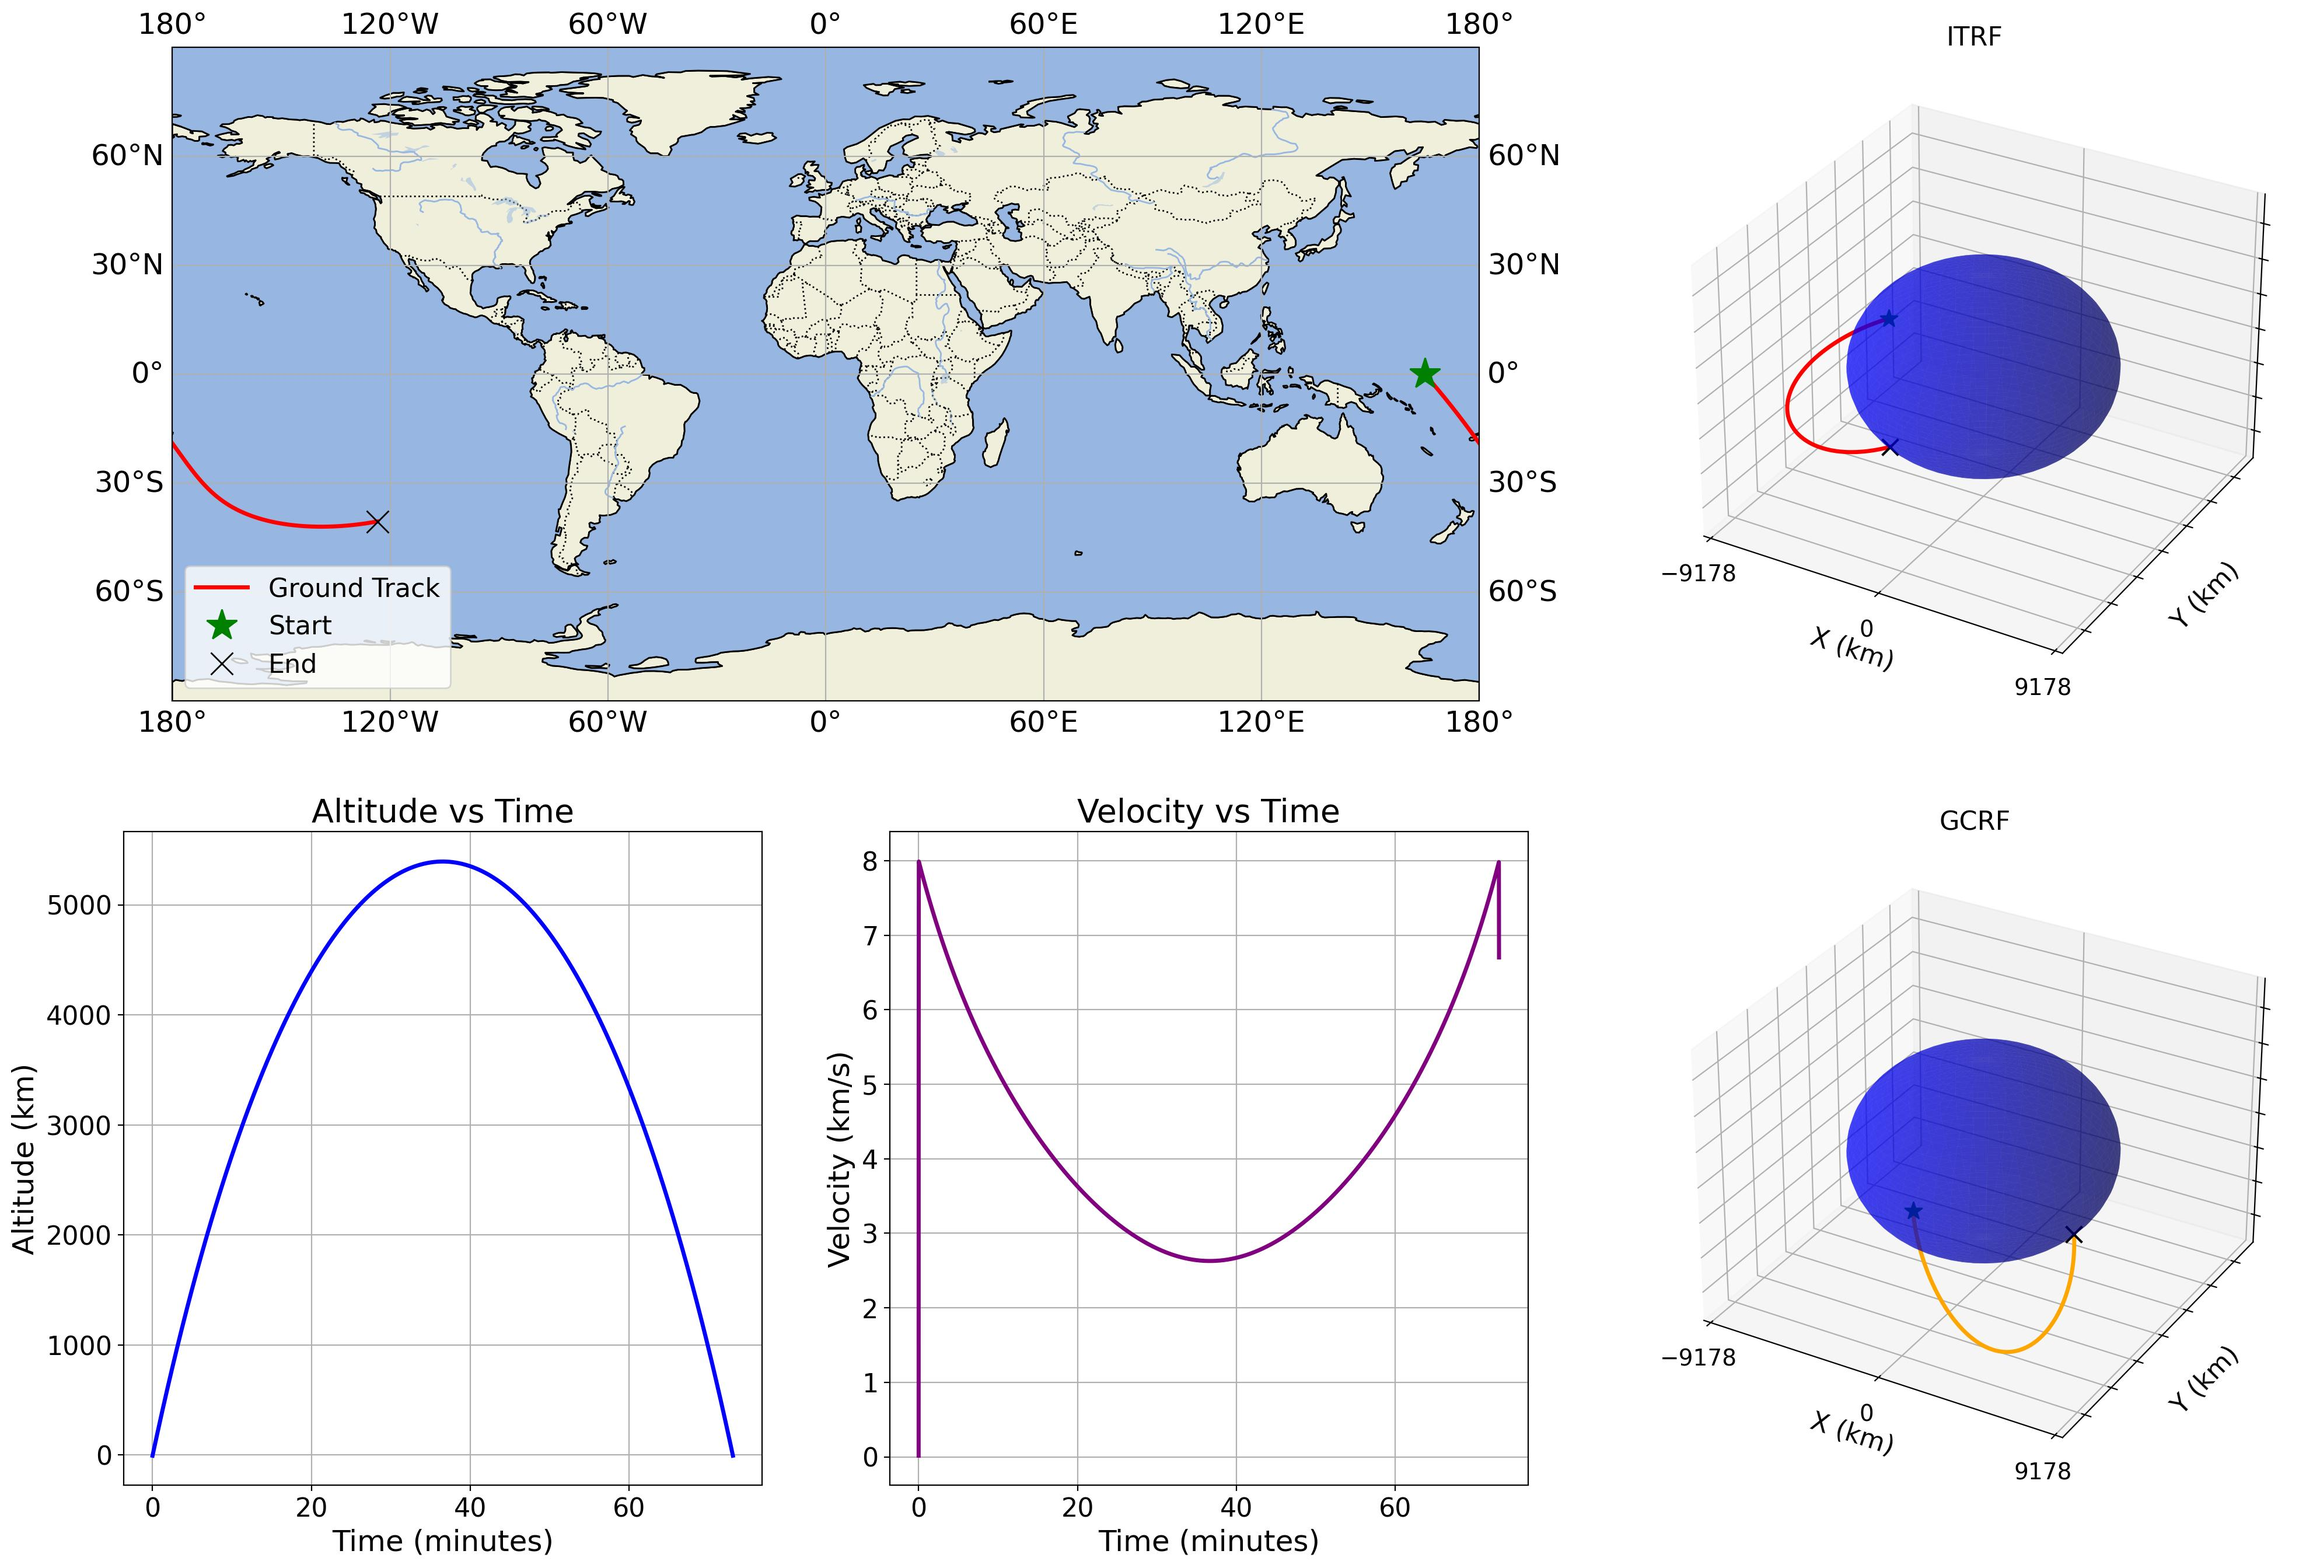
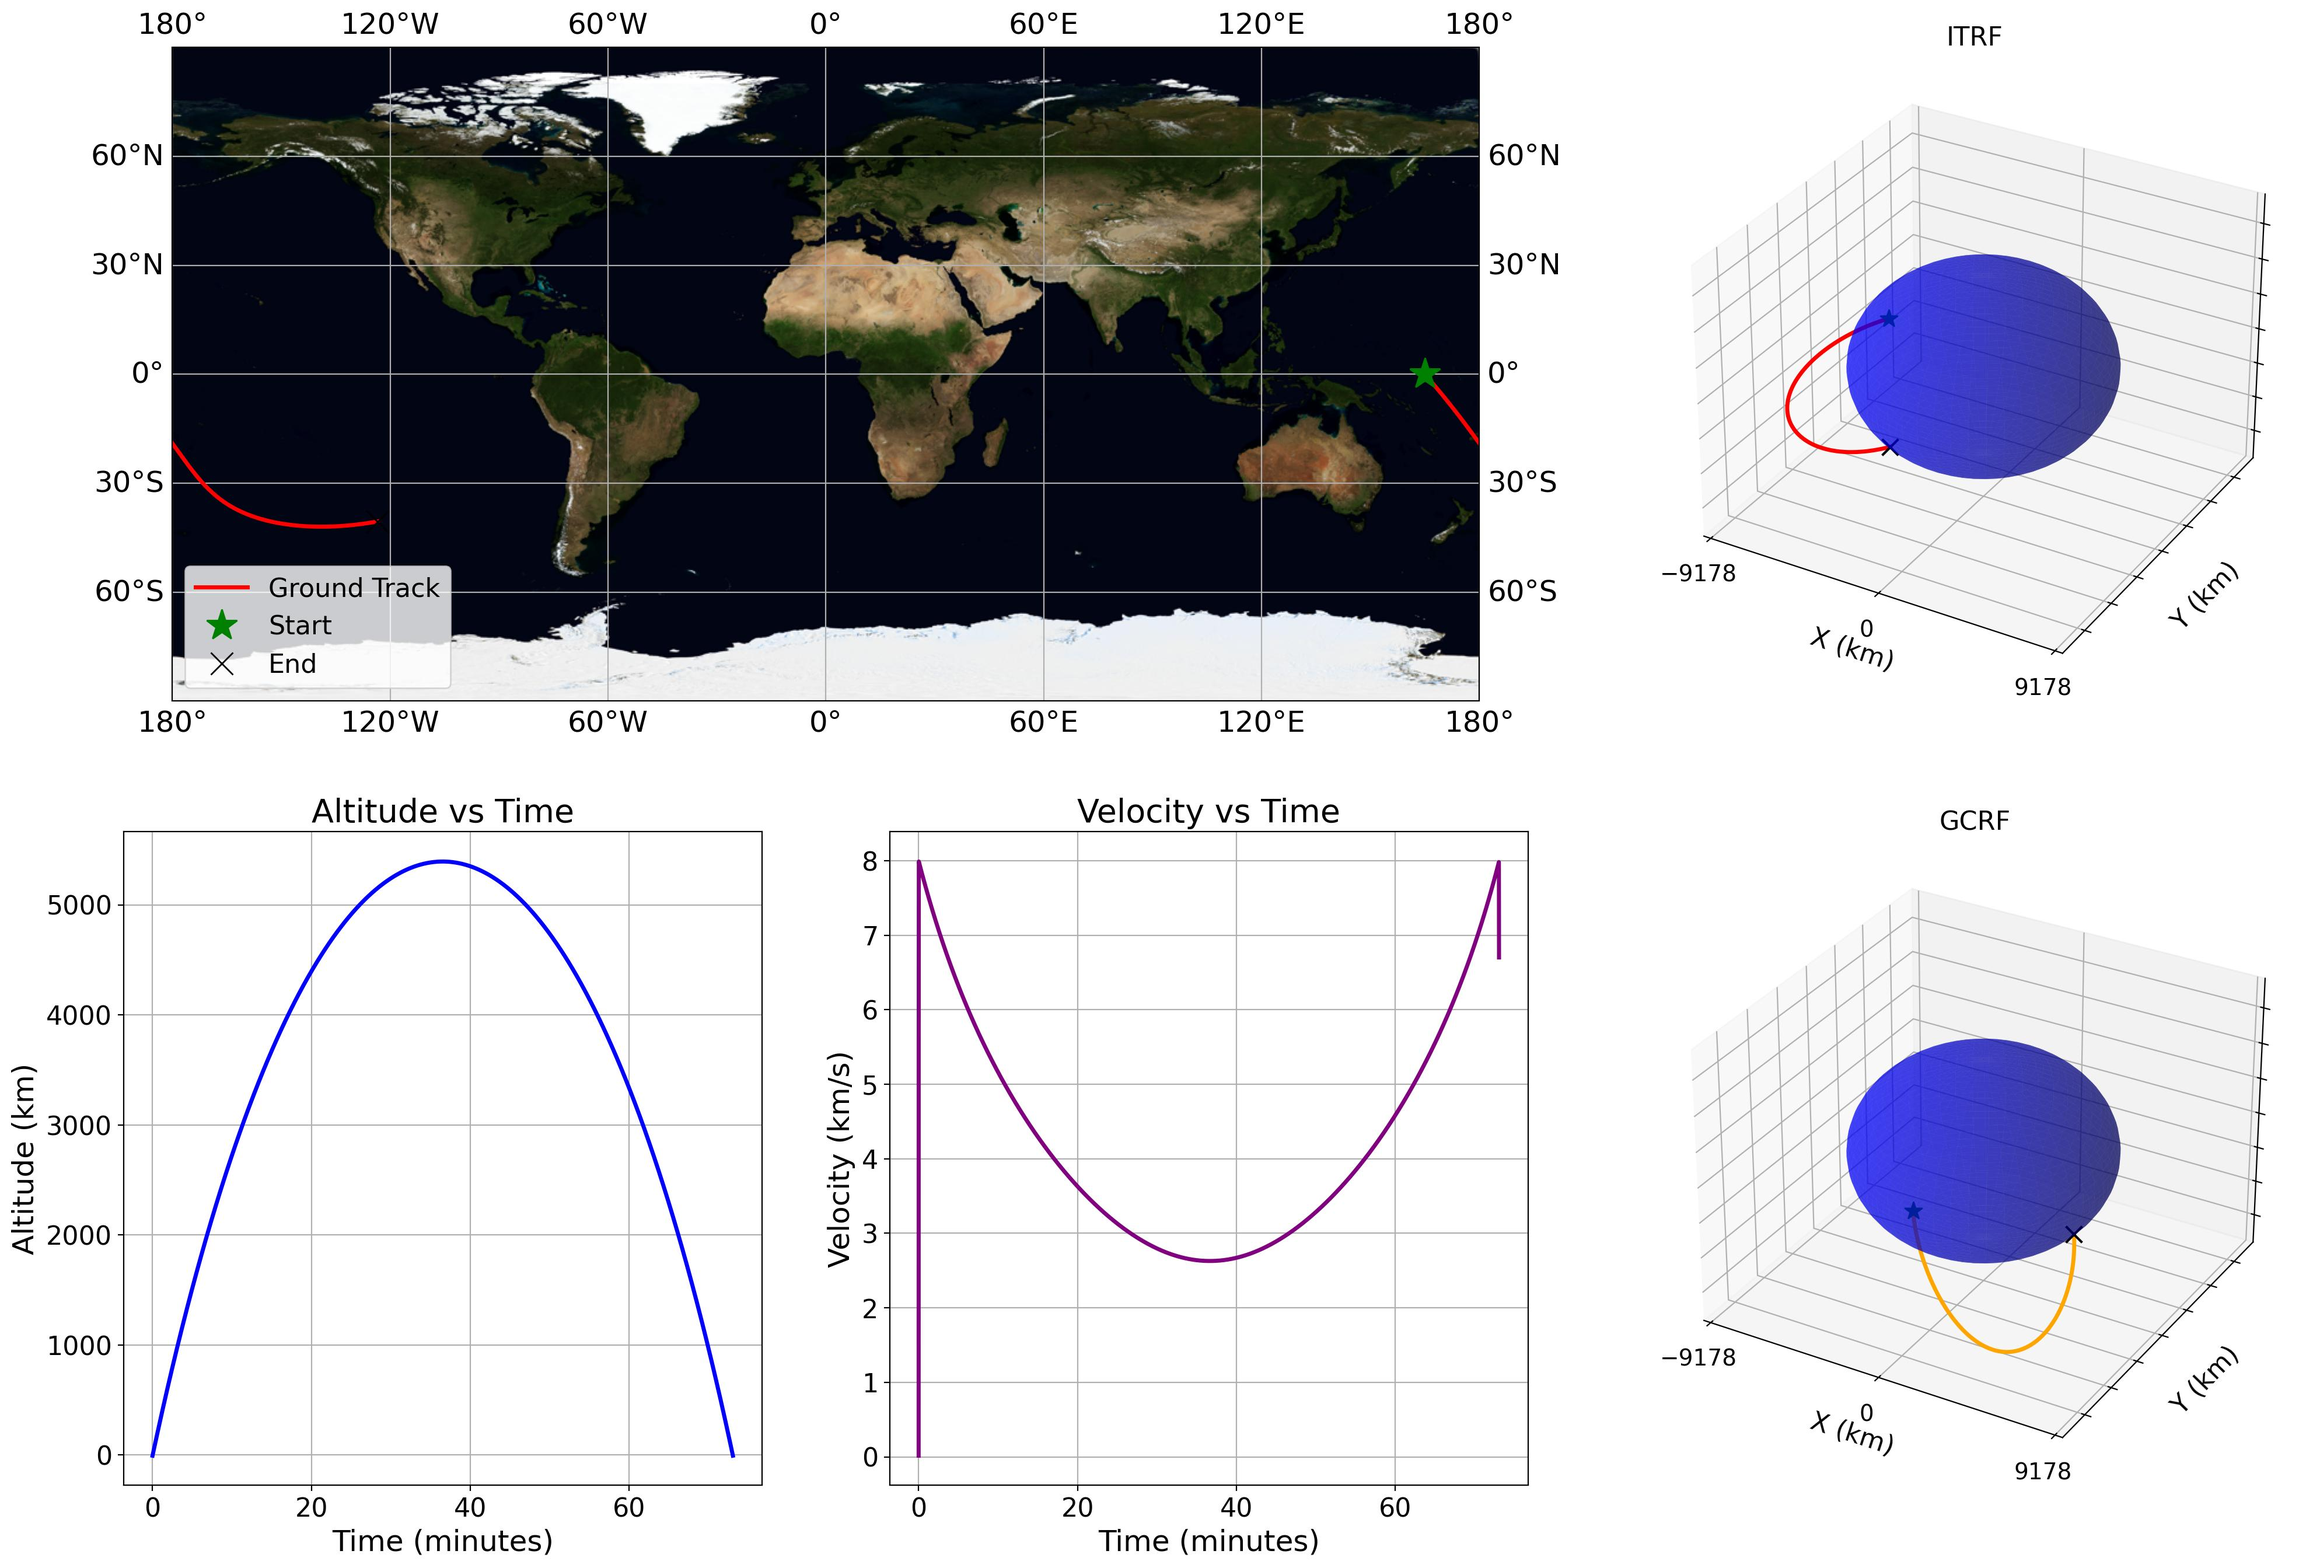
cartopy doesn't work offline at all

Changed region(s): [[0.0622, 0.0309, 0.6536, 0.4325]]

diff --git a/yeager_utils/plots/groundtrack_dashboard.py b/yeager_utils/plots/groundtrack_dashboard.py
@@ -1,11 +1,8 @@
 import numpy as np
 import matplotlib.pyplot as plt
 from matplotlib import gridspec
-import cartopy.crs as ccrs
-import cartopy.feature as cfeature
-
 from ssapy import groundTrack
-
+import cartopy.crs as ccrs
 from ..compute import find_smallest_bounding_cube
 from ..constants import EARTH_RADIUS
 from ..time import to_gps
@@ -65,6 +62,10 @@ def groundtrack_dashboard(x, y, z, times, save_path=None, pad=500, show=False, o
     ax1.set_global()
 
     if offline:
+        from .plotutils import load_earth_file, drawEarth
+        ax1.imshow(load_earth_file(), extent=[-180, 180, -90, 90])
+    else:
+        import cartopy.feature as cfeature
         ax1.add_feature(cfeature.LAND, edgecolor='black')
         ax1.add_feature(cfeature.OCEAN)
         ax1.add_feature(cfeature.COASTLINE)
@@ -72,13 +73,6 @@ def groundtrack_dashboard(x, y, z, times, save_path=None, pad=500, show=False, o
         ax1.add_feature(cfeature.LAKES, alpha=0.5)
         ax1.add_feature(cfeature.RIVERS)
         ax1.set_facecolor('lightblue')
-    else:
-        from cartopy.feature import NaturalEarthFeature
-        ax1.add_feature(NaturalEarthFeature('physical', 'land', '50m', edgecolor='face'), zorder=0)
-        ax1.add_feature(NaturalEarthFeature('physical', 'ocean', '50m', edgecolor='face'))
-        ax1.add_feature(NaturalEarthFeature('cultural', 'admin_0_countries', '50m'), linestyle=':')
-        ax1.add_feature(NaturalEarthFeature('physical', 'lakes', '50m'), alpha=0.5)
-        ax1.add_feature(NaturalEarthFeature('physical', 'rivers_lake_centerlines', '50m'))
 
     gl = ax1.gridlines(draw_labels=True)
     gl.xlabel_style = {'size': 18}
